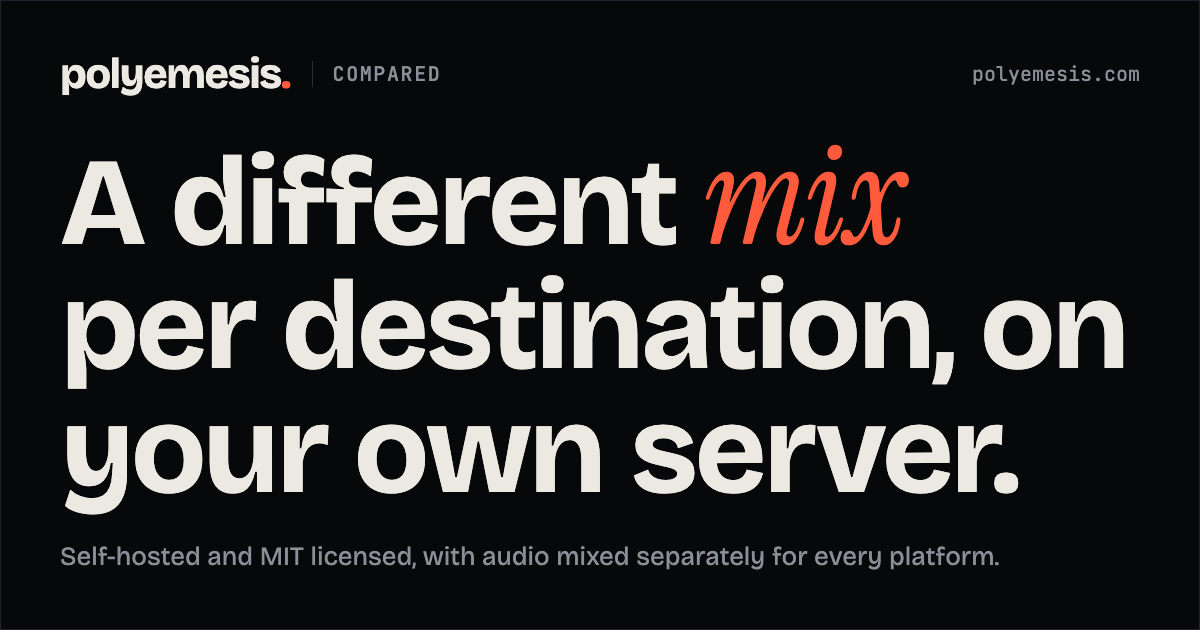
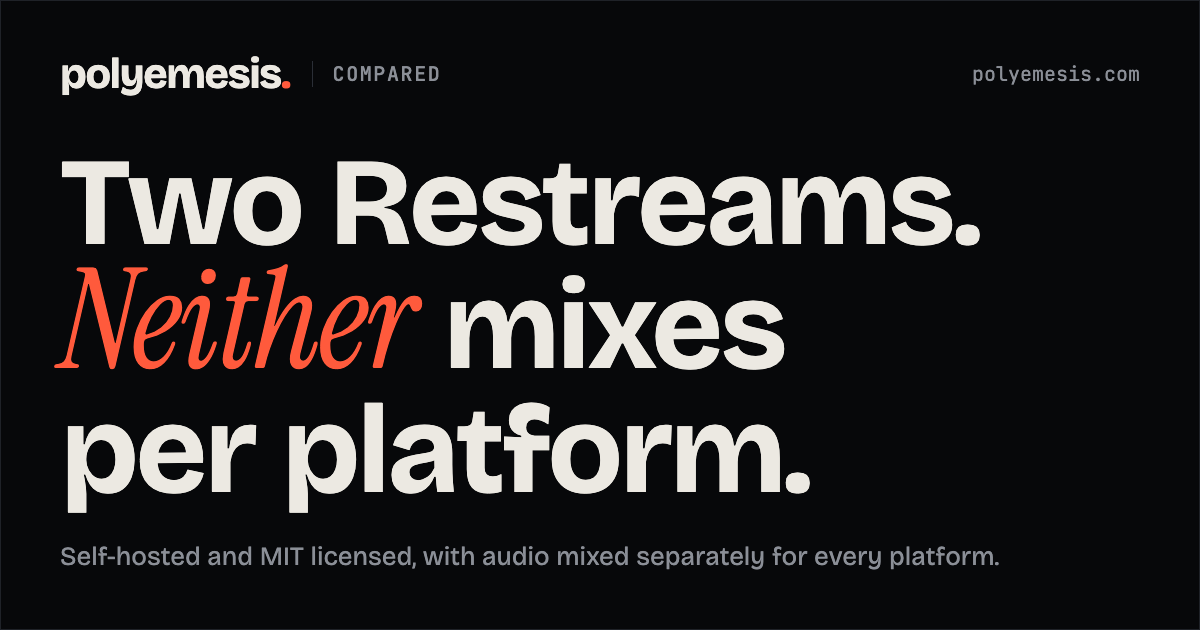
site: link-preview cards for the rebuilt install, features and Restream comparison pages
Claude-Session: https://claude.ai/code/session_016Mn1KjjUD4CwGFdwYj55F2

Changed region(s): [[0.0308, 0.4222, 0.9558, 0.6333], [0.0308, 0.2111, 0.8325, 0.3921], [0.0308, 0.6333, 0.8633, 0.8143]]

diff --git a/web/src/lib/inner-og.test.ts b/web/src/lib/inner-og.test.ts
@@ -1,0 +1,95 @@
+import { readFileSync } from "node:fs";
+import { fileURLToPath } from "node:url";
+import { describe, expect, it } from "vitest";
+import { OG_CARDS } from "../data/og.mjs";
+
+/* A link-preview card is the page's headline seen from outside, so its title must be the page's
+ * own heading. The heading is read from the page's source: `heading="…"` on the InnerPage
+ * element for the long-form pages, `DATA.heading` for the five /vs/* pages. A heading that
+ * cannot be found fails the test; it never reads as "nothing to compare". */
+
+type Card = { slug: string; path: string; title: string; accent?: string };
+const cards = OG_CARDS as Card[];
+const src = (p: string) => readFileSync(fileURLToPath(new URL(`../${p}`, import.meta.url)), "utf8");
+
+/** Reads a string-literal prop written as `name="…"` at the start of a line (the InnerPage
+ *  props sit one per line; the close band's are `name: "…"` object keys and never match). */
+function literalProp(file: string, name: string): string | undefined {
+  const text = src(file);
+  const m = new RegExp(`^\\s*${name}="([^"]+)"`, "m").exec(text);
+  if (m) return m[1];
+  if (new RegExp(`^\\s*${name}=\\{`, "m").test(text)) {
+    throw new Error(`${file}: ${name} is an expression, not a string literal; teach this test to read it`);
+  }
+  return undefined;
+}
+
+const card = (path: string) => {
+  const c = cards.find((x) => x.path === path);
+  if (!c) throw new Error(`no card for ${path}`);
+  return c;
+};
+
+const countWord = (title: string, word: string) => {
+  const esc = word.replace(/[.*+?^${}()|[\]\\]/g, "\\$&");
+  return (title.match(new RegExp(`(?<![\\p{L}\\p{N}])${esc}(?![\\p{L}\\p{N}])`, "gu")) ?? []).length;
+};
+
+const PAGES = [
+  "download",
+  "features",
+  "calculator",
+  "comparison",
+  "multistream",
+  "free-restream-service",
+  "how-to-multistream-from-obs",
+  "twitch-vod-track",
+];
+const VS = ["aitum-multistream", "obs-multi-rtmp", "restreamer", "streamelements", "streamlabs"];
+
+/** Cards that are NOT the page heading. Each entry is the card title the route is expected to
+ *  keep; the test fails if the card changes without this map, or if the page heading ever becomes
+ *  equal to the entry (the entry is then stale). Only /vs/restreamer is deliberate (design section
+ *  11a). The others are short link-preview headlines written before the pages were rebuilt, whose
+ *  page headings are longer or different; they are listed for the owner to decide, not changed here. */
+const CARD_DIFFERS: Record<string, string> = {
+  "/vs/restreamer": "Two Restreams. Neither mixes per platform.",
+  "/calculator": "Know your bandwidth before you go live.",
+  "/multistream": "One upload to Twitch, YouTube and Kick.",
+  "/free-restream-service": "A free restream service you run yourself.",
+  "/how-to-multistream-from-obs": "How to multistream from OBS.",
+  "/twitch-vod-track": "Different audio live and on the archive.",
+  "/vs/aitum-multistream": "Mix tracks on the server, per destination.",
+  "/vs/obs-multi-rtmp": "Upload once, fan out from a server.",
+  "/vs/streamelements": "Multistream over SRT, from any operating system.",
+  "/vs/streamlabs": "Your own relay, your own mix.",
+};
+
+type Heading = { heading?: string; accent?: string };
+const pageHeading = (slug: string): Heading => {
+  const file = `pages/${slug}.astro`;
+  return { heading: literalProp(file, "heading"), accent: literalProp(file, "accent") };
+};
+const vsHeading = async (slug: string): Promise<Heading> => (await import(`../data/vs/${slug}.mjs`)).DATA;
+
+const check = (path: string, { heading, accent }: Heading) => {
+  const c = card(path);
+  expect(heading, `${path}: page heading not found`).toBeTruthy();
+  if (path in CARD_DIFFERS) {
+    expect(c.title, `${path} card`).toBe(CARD_DIFFERS[path]);
+    expect(c.title, `${path}: heading now equals the card; drop it from CARD_DIFFERS`).not.toBe(heading);
+  } else {
+    expect(c.title, `${path} card`).toBe(heading);
+    if (accent) expect(c.accent, `${path} accent`).toBe(accent);
+  }
+  if (c.accent) expect(countWord(c.title, c.accent), `${path} accent occurs once`).toBe(1);
+};
+
+describe("card titles match page headings", () => {
+  it.each(PAGES)("/%s", (p) => check(`/${p}`, pageHeading(p)));
+  it.each(VS)("/vs/%s", async (s) => check(`/vs/${s}`, await vsHeading(s)));
+
+  it("fails when a heading cannot be found", () => {
+    expect(() => check("/download", {})).toThrow(/heading not found/);
+  });
+});
